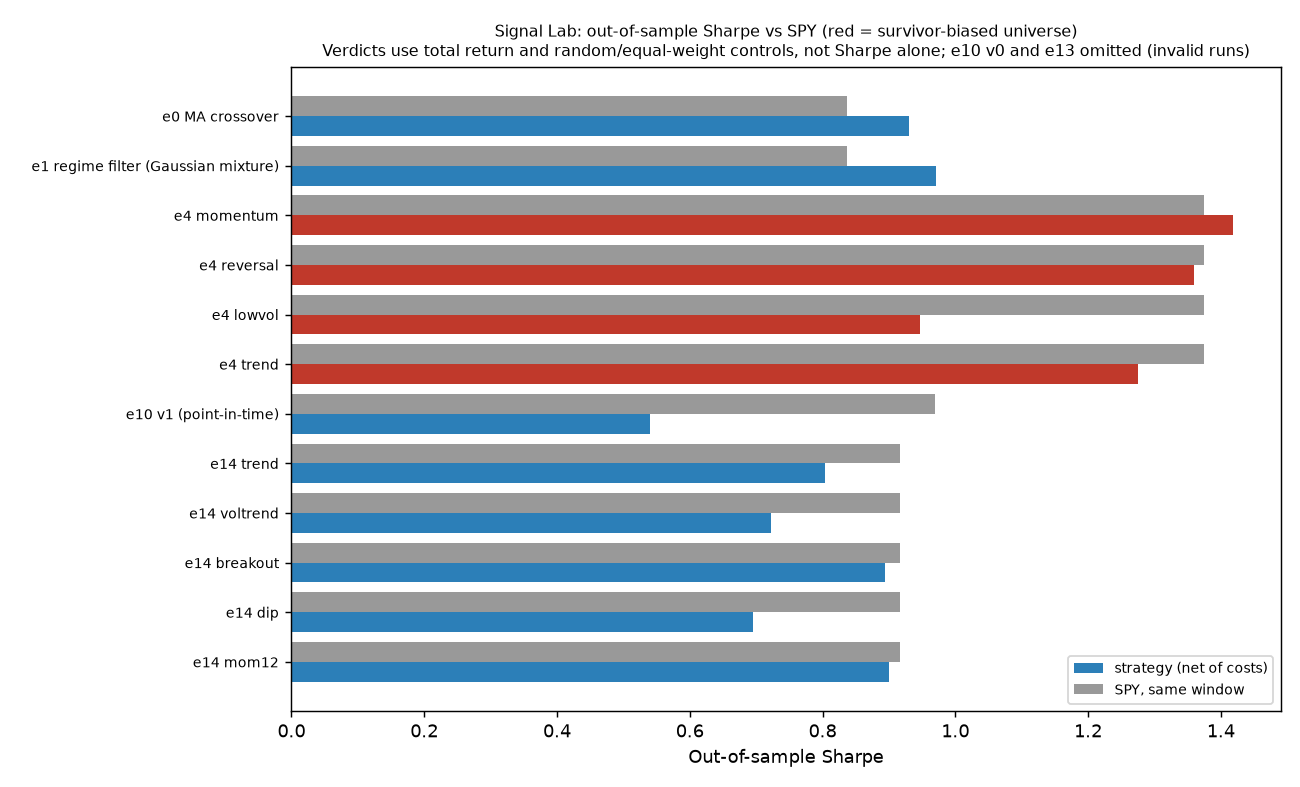
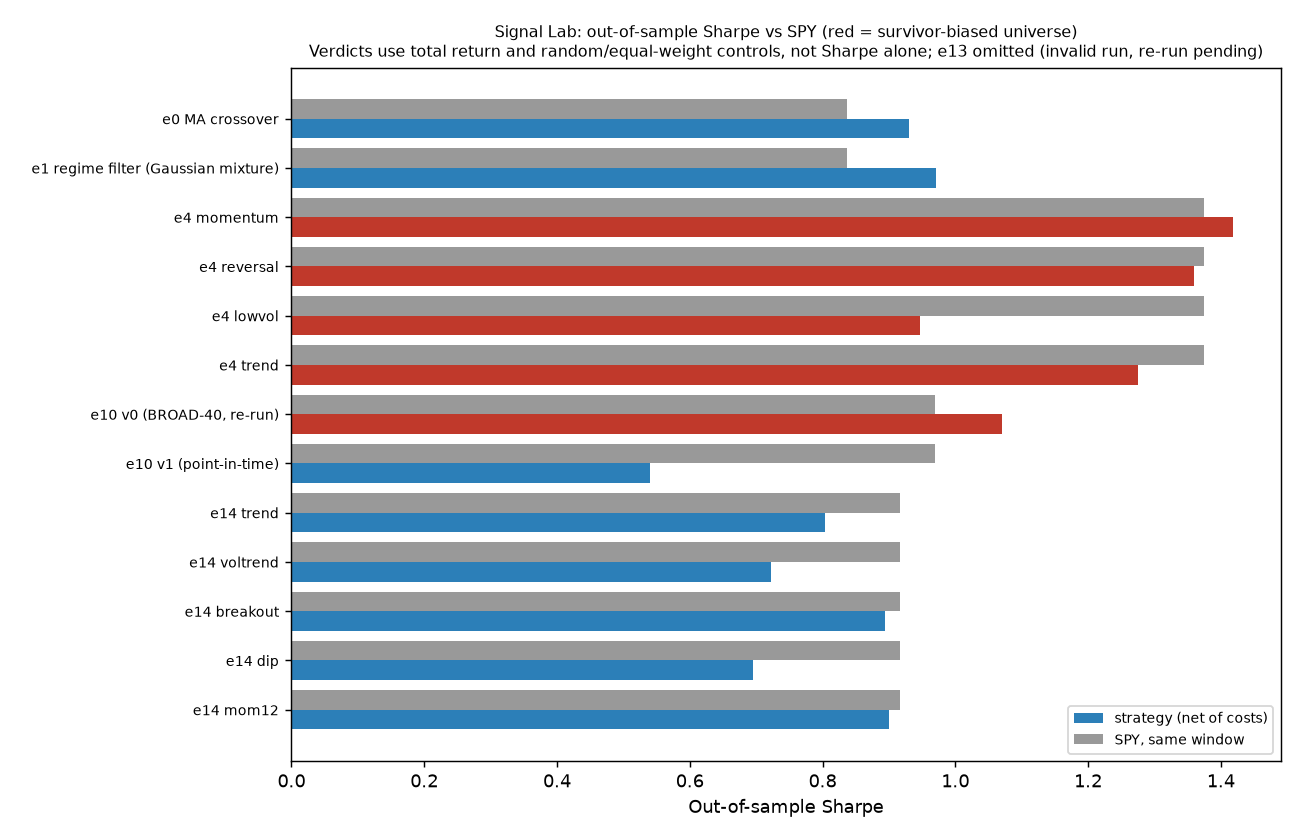
Update README, methodology and chart with the re-run results
The errata, results table and key findings still described e07, e10 v0
and e12 as pending re-runs. They now give the re-run numbers and
verdicts: e07 and e12 LOSE, e10 v0 SUSPECT (narrow gate pass on a
survivor-biased universe, not promoted).

The rows that are still pending say why: e09 needs a local llama.cpp
model, e13 needs SEC EDGAR access with a real contact, and the e20
data feed throttles downloads to about one file a minute.

The hero chart now plots the corrected e10 v0 run (marked as
survivor-biased) instead of omitting it; e13 is still left out. The
old e10 and e12 reports and runner docstrings point to their re-runs.

diff --git a/docs/make_charts.py b/docs/make_charts.py
@@ -27,8 +27,11 @@ for r in J("e00-ma-baseline/latest.json"):
 for r in J("e04-factor-tilts/e4-latest.json"):
     h = r["champion_holdout"]
     rows.append((r["experiment"].replace("_", " "), h["strategy"]["sharpe"], h["benchmark_sp500"]["sharpe"], True))
-# e10 v0 (overlapping-return error, pre-cost) and e13 (wrong price cache) are INVALID and left out;
-# see the README errata.
+# e10 v0: the November 2026 re-run of the corrected runner (5-session rebalances, 5bps/side).
+# The original v0 JSON is INVALID (overlapping returns compounded daily) and is not plotted.
+# e13 (wrong price cache; re-run pending) is left out; see the README errata.
+v0 = J("e10-gbm-ranker/e10-v0-gbm-rerun-2026-11.json")
+rows.append(("e10 v0 (BROAD-40, re-run)", v0["port_sharpe_net"], v0["spy_sharpe"], True))
 v1 = J("e10-gbm-ranker/e10-v1-survivorship.json")
 rows.append(("e10 v1 (point-in-time)", v1["strat_net_sharpe"], v1["spy_sharpe"], False))
 for k, v in J("e14-thirdparty-etf-rules/e14-results.json").items():
@@ -45,7 +48,7 @@ ax.invert_yaxis()
 ax.set_xlabel("Out-of-sample Sharpe")
 ax.set_title("Signal Lab: out-of-sample Sharpe vs SPY (red = survivor-biased universe)\n"
              "Verdicts use total return and random/equal-weight controls, not Sharpe alone; "
-             "e10 v0 and e13 omitted (invalid runs)", fontsize=9)
+             "e13 omitted (invalid run, re-run pending)", fontsize=9)
 ax.legend(loc="lower right", fontsize=8)
 fig.tight_layout()
 fig.savefig(os.path.join(OUT, "oos_sharpe_vs_spy.png"), dpi=130)

diff --git a/experiments/e10-gbm-ranker/run_e10_v0.py b/experiments/e10-gbm-ranker/run_e10_v0.py
@@ -24,7 +24,7 @@ day's return was counted about five times, which inflates Sharpe by roughly sqrt
 compounded total far more. It also used ABNORMAL (stock minus SPY) returns but compared them
 with SPY's total return, charged no costs, and treated overlapping daily ICs as independent.
 The published "Sharpe 2.08 / 8,689x" is therefore mostly a return-math error, not only
-survivorship. This file is the corrected runner; it has not been re-run yet.
+survivorship. This file is the corrected runner; its re-run is in e10-v0-gbm-rerun-2026-11.*.
 """
 import json, os, sys, time
 import pandas as pd

diff --git a/experiments/e12-pairs-cointegration/run_e12.py b/experiments/e12-pairs-cointegration/run_e12.py
@@ -29,7 +29,7 @@ position and each exit dropped the reverting move. A perfect +3 -> 0 reversion s
 a loss. It also divided by the spread sd twice, used ADF critical values (-3.44) instead
 of Engle-Granger ones, gave the random pairs a hedge ratio of 1, and dropped every name
 that listed after 2012 from all years. Those results are INVALID; this file is the
-corrected runner and has not been re-run yet.
+corrected runner; its re-run is in e12-pairs-rerun-2026-11.*.
 """
 import itertools, json, os, sys, time
 import numpy as np

diff --git a/README.md b/README.md
@@ -19,27 +19,31 @@ out-of-sample testing with realistic costs. This lab ran such claims through one
 pipeline and recorded what happened. Twenty experiments are indexed below (e00–e22; e11, e15 and
 e21 were never run). None of the valid results shows a usable edge: they lose to SPY (equity
 strategies) or to random-entry and trend-following controls (FX), and the few that pass a gate
-do so on a survivor-biased universe and are not promoted. Five runs are INVALID and await a
-re-run. Several published verdicts turned out
-to rest on bugs; they are listed in the errata and relabeled rather than removed.
+do so on a survivor-biased universe and are not promoted. Several published verdicts turned out
+to rest on bugs; they are listed in the errata and relabeled rather than removed. Of the five
+runs marked INVALID, three were re-run with the fixed code in November 2026: e07 ORB/fade and e12
+now LOSE, and e10 v0 passes its gate narrowly on a survivor-biased universe (SUSPECT, not
+promoted). e09 and e13 are still INVALID and await a re-run.
 
 ## Errata (November 2026)
 
 A line-by-line review of the runners found bugs under several published verdicts. Each one is
 fixed in code. Market data could not be downloaded when the fixes were made, so the affected
-experiments have **not** been re-run; their committed numbers are from the buggy code and are
-labeled INVALID or "pending re-run". Numbers below were recomputed from committed files where
-possible; anything marked "rough" is arithmetic on committed summary numbers, not a re-run.
+experiments were first relabeled INVALID or "pending re-run" with numbers recomputed from committed
+files; anything marked "rough" is arithmetic on committed summary numbers, not a re-run. On
+2026-11-25 the fixed runners for e07, e10 v0 and e12 were re-run once on fresh data with their
+pre-registered parameters; those rows now give the re-run result (files named `*-rerun-2026-11.*`,
+trials appended to `registry/trials.jsonl`). The old reports stay in the repo, marked INVALID.
 
 | Experiment | What was wrong | What changes | Does the conclusion hold? |
 |---|---|---|---|
-| e10 v0 | The top decile's 5-day forward return was recorded every day, compounded daily and annualized with sqrt(252), so each day counted about 5 times. Returns were abnormal (vs SPY) but compared with SPY's total return; pre-cost; IC t ignored the overlap. | v0 is INVALID. Rough correction: Sharpe ~2.08/sqrt(5) = 0.93, IC t ~2.07, the 8,689x total is about 14.7%/yr pre-cost abnormal return. The "8,689x / 87%/yr from survivorship" story is withdrawn. Runner fixed (5-session rebalances, costs, Newey-West t). | e10 v1 (point-in-time, LOSE) is not affected. Survivorship still flatters BROAD-40 results, but v0 does not measure by how much. Pending re-run. |
+| e10 v0 | The top decile's 5-day forward return was recorded every day, compounded daily and annualized with sqrt(252), so each day counted about 5 times. Returns were abnormal (vs SPY) but compared with SPY's total return; pre-cost; IC t ignored the overlap. | v0 is INVALID. Rough correction: Sharpe ~2.08/sqrt(5) = 0.93, IC t ~2.07, the 8,689x total is about 14.7%/yr pre-cost abnormal return. The "8,689x / 87%/yr from survivorship" story is withdrawn. Runner fixed (5-session rebalances, costs, Newey-West t). | e10 v1 (point-in-time, LOSE) is not affected. **Re-run (2026-11-25):** IC 0.010, Newey-West t 2.03, top-decile net Sharpe 1.07 vs SPY 0.97 at 5 bps/side (2012-07 to 2026-11). Passes the gate narrowly on survivor-biased BROAD-40: SUSPECT, not promoted. A first attempt that lost META to a failed download gave t 2.04, Sharpe 0.89, LOSE; both trials are logged. |
 | e04 | The README said "no factor passes both regime splits". The repo's own reports show reversal and trend PASS the strict gate on both splits (momentum on 2023+ only). | Relabeled SUSPECT, not promoted. | Still not an edge: survivor-biased BROAD-40, champion parameters differ between splits, and champions were promoted on the same holdout they are scored on. |
-| e09 | The output parser looked for "ANSWER:", which the prompt never contained; llama-cli echoes the prompt ("UP or DOWN"), so every call parsed as UP. | "Constant-UP predictor" withdrawn; e09 is INVALID. Parser fixed (prompt not echoed, grammar-constrained UP/DOWN). | Unknown. Pending re-run. |
-| e07 ORB | The short leg was simulated as a long; the stop check fired on the first bar and booked every short as a win. That is the +0.519%/trade and 68.6% win rate. e7c (fade) always shorted, even below VWAP. | ORB INVALID (it was labeled SUSPECT; the trial log says BEAT). Both fixed. | e7b (reclaim) LOSE is unaffected. ORB and fade pending re-run. |
-| e12 | The position was updated from today's z-score before today's spread change was booked, so entries booked their trigger move as a loss and exits dropped the reversion; a perfect +3 to 0 reversion scored about -6%. Also double-scaled P&L, ADF instead of Engle-Granger critical values, random pairs with hedge ratio 1, late listings dropped. | INVALID. "Real cointegrated pairs underperform random pairs" is withdrawn. Runner fixed. | Unknown. Pending re-run. |
-| e13 | `harness.data.fetch` returned the cached 8-ticker e0 panel instead of BROAD-40, so most picks earned 0%. Also: book only 50% invested, no switch to SPY when risk-off, same-bar look-ahead, ROA used as ROE, control never rebalanced. | INVALID. Cache check added to the harness; runner fixed. | Unknown. Pending re-run. |
-| e20 | 4H bars are labeled by their start; the scan began at the start of the break candle, so about 30% of trades (54% of the no-trigger ablation) entered before that candle closed. | Dropping those trades from the committed CSVs: primary holdout -0.12R (t -0.72, n 111) instead of -0.04R; every variant is lower. Runner fixed. | LOSE holds (the leak favored the strategy). The dev-period ablation and the 2003–14 / 2022+ follow-up ran on the leaky code and are tainted. |
+| e09 | The output parser looked for "ANSWER:", which the prompt never contained; llama-cli echoes the prompt ("UP or DOWN"), so every call parsed as UP. | "Constant-UP predictor" withdrawn; e09 is INVALID. Parser fixed (prompt not echoed, grammar-constrained UP/DOWN). | Unknown. Pending re-run (needs a local llama.cpp build and the GGUF model, which were not available for the November re-runs). |
+| e07 ORB | The short leg was simulated as a long; the stop check fired on the first bar and booked every short as a win. That is the +0.519%/trade and 68.6% win rate. e7c (fade) always shorted, even below VWAP. | ORB INVALID (it was labeled SUSPECT; the trial log says BEAT). Both fixed. | **Re-run (2026-11-25), LOSE:** ORB -0.133%/trade (n 2,248), fade -0.111% (n 221), reclaim -0.145% (n 736), random entries -0.165%, after 14 bps round trip. Only ~60 days of 5-minute bars are available (2026-09-02 to 2026-11-25), a different window from the first run. |
+| e12 | The position was updated from today's z-score before today's spread change was booked, so entries booked their trigger move as a loss and exits dropped the reversion; a perfect +3 to 0 reversion scored about -6%. Also double-scaled P&L, ADF instead of Engle-Granger critical values, random pairs with hedge ratio 1, late listings dropped. | INVALID. "Real cointegrated pairs underperform random pairs" is withdrawn. Runner fixed (and, at the re-run, a leftover global drop of late listings removed). | **Re-run (2026-11-25), LOSE:** mean annual -2.9% over 2016–2026 vs SPY +15.0%; random pairs -3.8%. Selection adds about a point a year over chance, well inside the noise. |
+| e13 | `harness.data.fetch` returned the cached 8-ticker e0 panel instead of BROAD-40, so most picks earned 0%. Also: book only 50% invested, no switch to SPY when risk-off, same-bar look-ahead, ROA used as ROE, control never rebalanced. | INVALID. Cache check added to the harness; runner fixed. | Unknown. Pending re-run: SEC EDGAR refuses requests without a real contact in the `User-Agent`, and the runner ships with a placeholder. |
+| e20 | 4H bars are labeled by their start; the scan began at the start of the break candle, so about 30% of trades (54% of the no-trigger ablation) entered before that candle closed. | Dropping those trades from the committed CSVs: primary holdout -0.12R (t -0.72, n 111) instead of -0.04R; every variant is lower. Runner fixed. | LOSE holds (the leak favored the strategy). The dev-period ablation and the 2003–14 / 2022+ follow-up ran on the leaky code and are tainted. Not re-run yet: the free Dukascopy feed throttled the hourly-candle download to about one month-file per minute (about 1,400 files needed), and the follow-up's runner is not in this repo. |
 | e08 | IC t-stat treated overlapping 5-day labels as independent; early stopping held out the last ~10 tickers (rows were sorted by ticker), sharing dates with training. | Rough overlap correction puts t = -2.06 near -0.9. "Anti-predictive" withdrawn. Runner fixed. | LOSE (no skill) holds. |
 | e06 | Entry at the filing-date close (Form 4s are often filed after the close); 5-day embargo where 10 was pre-registered; t-stat ignored overlap. | Runner fixed. | LOSE very likely holds (IC 0.017, t 0.11 over 17 days). Pending re-run. |
 | e02 v0 | Filings were counted over a Monday–Sunday week, but entry used the close on or before that Monday (up to ~6 days early). | Runner fixed (entry at the next Monday's close). | v0 AUC 0.498 pending re-run. v1/v2 are not affected. |
@@ -62,19 +66,19 @@ experiment's folder; the main ones are under [Quickstart](#quickstart-fresh-clon
 | [e04](experiments/e04-factor-tilts/) | Classic factor tilts (momentum, low-vol, reversal, trend) | SUSPECT, not promoted — reversal and trend pass the strict gate on both splits, on a survivor-biased universe with holdout-selected champions |
 | [e05](experiments/e05-thesis-book/) | Thesis-research 10-position paper book vs SPY, QTUM and random-pick control | discontinued at archive (seeded 2026-10-20, only the day-0 snapshot exists) |
 | [e06](experiments/e06-sec-filings/) | SEC-filing features forecast 5-session abnormal returns | LOSE — IC 0.017, t 0.11, 17 scored days (runner fixed, see errata) |
-| [e07](experiments/e07-daytrading-setups/) | Claimed day-trading setups (ORB, VWAP reclaim/fade, gap-and-go) | reclaim LOSE (matches the random-entry control); ORB INVALID; fade pending re-run; gap-and-go 3 trades, untestable |
+| [e07](experiments/e07-daytrading-setups/) | Claimed day-trading setups (ORB, VWAP reclaim/fade, gap-and-go) | **LOSE** — re-run on 60 sessions of 5-min bars, 14 bps round trip: ORB −0.133%/trade (n 2,248), fade −0.111% (n 221), reclaim −0.145% (n 736) vs random entries −0.165%; gap-and-go 4 trades, untestable |
 | [e08](experiments/e08-lstm/) | LSTM on daily price sequences | LOSE — no skill (IC −0.0082; overlap-corrected t about −0.9) |
 | [e09](experiments/e09-local-llm/) | Local 1.5B LLM analyst (zero-shot, llama.cpp) | INVALID — output-parser bug; pending re-run |
 | [e10 v1](experiments/e10-gbm-ranker/) | Same GBM on point-in-time S&P 500 membership, 10bps/side | **LOSE** — net Sharpe 0.54 vs SPY 0.97, CAGR 10.5% vs 15.4%; beats random-pick p95 (0.42) only; IC t 1.98 |
-| [e10 v0](experiments/e10-gbm-ranker/) | GBM cross-sectional ranker on BROAD-40 (today's large caps) | INVALID — overlapping returns compounded daily, pre-cost; pending re-run |
-| [e12](experiments/e12-pairs-cointegration/) | Pairs trading via cointegration | INVALID — P&L booked on the signal bar in the wrong direction; pending re-run |
-| [e13](experiments/e13-cio-framework/) | "CIO framework" LLM prompt, decomposed | INVALID — ran on the wrong price data; pending re-run |
+| [e10 v0](experiments/e10-gbm-ranker/) | GBM cross-sectional ranker on BROAD-40 (today's large caps) | SUSPECT, not promoted — re-run: IC t 2.03, net Sharpe 1.07 vs SPY 0.97 at 5 bps/side; passes the gate narrowly on a survivor-biased universe, and an attempt missing META (failed download) did not pass (the first run was INVALID) |
+| [e12](experiments/e12-pairs-cointegration/) | Pairs trading via cointegration | **LOSE** — re-run: mean annual −2.9% (2016–2026) vs SPY +15.0%; random pairs −3.8% (the first run was INVALID) |
+| [e13](experiments/e13-cio-framework/) | "CIO framework" LLM prompt, decomposed | INVALID — ran on the wrong price data; pending re-run (needs SEC EDGAR access with a real contact) |
 | [e14](experiments/e14-thirdparty-etf-rules/) | Shared bot: 5 rules (trend, vol-trend, breakout, dip, 12m momentum) on 7 ETFs/crypto | LOSE — 0/5 pass own gate (v0 and v1 with the shared params); none beats SPY |
 | [e16a](experiments/e16-daily-direction/) | Daily SPY open->close direction: logit + HGB walk-forward, TP/SL overlays | **LOSE** — 0/4 variants pass; AUC 0.495 (logit) / 0.520 (HGB); net Sharpe 0.06–0.42 at 2 bps, −1.6 to −3.5 at the pre-registered 20 bps, vs SPY B&H 0.86 |
 | [e16b/e17](forward/SPEC-e16b-e17.md) | Live forward arms of e16/e17 on paper accounts | discontinued at archive (no scored calls committed) |
 | [e18](experiments/e18-newtoken-logger/) | New crypto token listing logger + scorer | discontinued at archive (1 day of data, gate needs ≥200 approved tokens) |
 | [e19](experiments/e19-foundation-forecast/) | Zero-shot Kronos / TimesFM forecasts on 14 ETFs | **LOSE** — 0/12 trials BEAT (Bonferroni alpha 0.0042) |
-| [e20](experiments/e20-fx-break-retest/) | Retail FX "break → retest → engulfing" setup, 10 pairs, 2015–2026 | **LOSE** — holdout (2022+) mean −0.04R/trade, t −0.29, n=152 (−0.12R without the look-ahead trades); 0/6 variants reach t≥2. The follow-up on the best dev ablation also failed but ran on the leaky code; FX lane closed |
+| [e20](experiments/e20-fx-break-retest/) | Retail FX "break → retest → engulfing" setup, 10 pairs, 2015–2026 | **LOSE** — holdout (2022+) mean −0.04R/trade, t −0.29, n=152 (−0.12R without the look-ahead trades); 0/6 variants reach t≥2. The follow-up on the best dev ablation also failed but ran on the leaky code; corrected re-run pending (data feed throttled); FX lane closed |
 | [e22](experiments/e22-tsmom/) | Cross-asset vol-targeted 12-1 time-series momentum, 8 ETFs, 2015+ holdout | **LOSE** — best holdout Sharpe 0.52 (long-only) vs SPY 0.80; long/short variants ≈ 0 |
 
 Verdict labels: **BEAT** (passes every pre-registered gate), **LOSE** (fails at least one),
@@ -94,7 +98,9 @@ These are the conclusions that survive the errata.
 - **Survivorship and costs.** On point-in-time S&P 500 membership the GBM ranker is net Sharpe
   0.54 vs SPY 0.97 and **LOSE** (e10 v1); gross Sharpe 0.80 falls to 0.54 net at 10 bps/side
   (0.63 turnover per rebalance). The earlier "8,689x on today's mega-caps" figure was mostly a
-  return-math error and is withdrawn.
+  return-math error and is withdrawn. Re-run correctly on today's mega-caps (e10 v0), the same
+  model is net Sharpe 1.07 vs SPY 0.97 with IC t 2.03: a bare pass on a survivor-biased list that
+  disappears on point-in-time membership.
 - **Random controls matter.** On a survivor-biased universe most random 3-stock picks beat SPY
   (16 of 20 seeds in the e0 report), so beating SPY is not evidence; the strict verdict also
   requires beating the random-pick median and the equal-weight universe. The e4 factor tilts
@@ -107,7 +113,9 @@ These are the conclusions that survive the errata.
 - **Bugs hide in the plumbing, not the model.** Five published verdicts were decided by P&L,
   timing, data-loading or parsing bugs (e07 ORB, e09, e10 v0, e12, e13), and e20's development
   numbers were inflated by look-ahead inside a bar. Most of these runners did their own
-  simulation instead of using the unit-tested harness code.
+  simulation instead of using the unit-tested harness code. Re-run with the fixes, the e07 ORB
+  "edge" (+0.519%/trade) became a loss (−0.133%/trade), and e12's cointegrated pairs now lose
+  slightly less than random pairs (−2.9% vs −3.8% a year) instead of more; both still lose.
 
 ![e10 v1 gross vs net vs SPY](docs/img/e10_survivorship_costs.png)
 
@@ -116,13 +124,15 @@ These are the conclusions that survive the errata.
 - Free data only (yfinance adjusted closes); no delisted-name prices, so even the point-in-time
   e10 v1 covers 68%–99% of historical members depending on date (lowest early; delisted names are missing).
 - Most universes are small (BROAD-40, 7 ETFs); single-stock results are flagged SUSPECT.
-- Intraday tests (e07) cover ~60 days of 5-minute data; e06 has 17 scored days. Low power.
+- Intraday tests (e07) cover ~60 days of 5-minute data (yfinance keeps no more), so the first run
+  and the re-run cover different windows; e06 has 17 scored days. Low power.
 - Costs are flat bps assumptions, no market impact or borrow costs. Daily backtests fill at the
   signal bar's close (market-on-close), not the next open.
 - SPY is the S&P 500 proxy. Holdouts are reused for champion promotion once per generation, so
   they degrade; generations are capped but not zero-cost.
 - Seeds, universes and windows differ across experiments: compare verdicts, not raw numbers.
-- Several runners were never re-run after the November 2026 fixes (see errata).
+- e07, e10 v0 and e12 were re-run after the November 2026 fixes; e01/e04, e02 v0, e06, e08, e09,
+  e13 and e20 were not (see errata).
 - No live-trading evidence; the paper clocks (e03, e05, e16b/e17, e18) were stopped at archive.
 
 ## Design
@@ -135,20 +145,23 @@ What is implemented, and where it falls short.
   e20; fixed). Intraday stop/target checks assume the stop is hit first when both are touched in
   one bar.
 - **Costs in most tests.** Per-side cost on turnover (5 bps default, 10 bps for e10 v1, 20 bps
-  round trip for e16a). IC-only experiments (e2 v0, e6, e8, e9) and the e10 v0 run charge none.
+  round trip for e16a). IC-only experiments (e2 v0, e6, e8, e9) and the first (invalid) e10 v0
+  run charge none; the e10 v0 re-run charges 5 bps/side.
 - **Controls where they could be built.** Random-pick / random-entry / random-sign controls for e0,
   e1, e2 v1/v2, e4, e5, e7, e10 v1, e14, e16a, e19, e20 and e22; random pairs for e12. e6, e8, e9 and e10 v0 have no control.
 - **Overfit accounting.** `registry/trials.jsonl` is append-only, but incomplete (e2 v0, e3 and
-  e18 not logged; e20 follow-up kept privately; some re-runs logged more than once; one block out
-  of chronological order). Deflated Sharpe is computed for e0, e1 and e4 over their logged trials.
-  PBO is not implemented. Champions are picked on full development-period Sharpe and promoted on
-  the holdout, so the holdout is not untouched.
+  e18 not logged; e20 follow-up kept privately; some re-runs logged more than once, including the
+  e10 v0 re-run, whose first attempt lacked one stock; one block out of chronological order).
+  Deflated Sharpe is computed for e0, e1 and e4 over their logged trials. PBO is not implemented.
+  Champions are picked on full development-period Sharpe and promoted on the holdout, so the
+  holdout is not untouched.
 - **Same-window comparison.** Every verdict compares strategy, SPY and (where present) the control
   over identical dates.
 - **Pre-registration.** Most experiments have a `SPEC*.md` written before the run.
   `registry/experiments.yaml` covers only e0–e5 and its grids differ from what ran (noted in the
   file). Kill criteria were mostly honored (e8, e9, e12, e20 lanes closed), but e2 was reopened
-  twice after its kill gate, and the e9 and e12 closures rested on the buggy runs.
+  twice after its kill gate, and the e9 and e12 closures rested on the buggy runs (the e12
+  re-run confirms the LOSE; e9 is still pending).
 
 ## Stack
 
@@ -181,17 +194,20 @@ Reproduce one result from raw data (needs network; downloads prices via yfinance
 
 ```bash
 python experiments/e22-tsmom/run_e22.py data out        # fast (~2 min), prices via yfinance; compare out/results.json with experiments/e22-tsmom/results/
-python experiments/e12-pairs-cointegration/run_e12.py   # corrected pairs walk-forward (the committed e12-pairs.md is INVALID)
+python experiments/e12-pairs-cointegration/run_e12.py   # corrected pairs walk-forward (re-run: e12-pairs-rerun-2026-11.md)
+python experiments/e10-gbm-ranker/run_e10_v0.py         # corrected v0 ranker (re-run: e10-v0-gbm-rerun-2026-11.md)
+python experiments/e07-daytrading-setups/run_e7.py      # yfinance keeps only ~60 days of 5-minute bars, so the window moves
 python -m tests.smoke                                   # e0/e1/control causality + verdict on real data
 ```
+
+These append to `registry/trials.jsonl` when they finish. Their November 2026 re-runs are
+committed under each experiment folder as `*-rerun-2026-11.*`.
 
 Pending re-runs from the errata (need network; outputs go to `reports/`, trials to
 `registry/trials.jsonl`):
 
 ```bash
 python experiments/e13-cio-framework/run_e13.py         # needs a real SEC contact in its User-Agent
-python experiments/e10-gbm-ranker/run_e10_v0.py
-python experiments/e07-daytrading-setups/run_e7.py      # yfinance keeps only ~60 days of 5-minute bars
 python experiments/e08-lstm/run_e8.py                   # needs torch
 python experiments/e06-sec-filings/run_e6.py
 python experiments/e02-insider-filings/run_e2_edgar.py
@@ -202,6 +218,8 @@ LLAMA_CLI=/path/to/llama-cli E9_MODEL=/path/to/model.gguf \
   python experiments/e09-local-llm/e9_infer.py data/cache/e9_summaries.jsonl data/cache/e9_predictions.jsonl
 python experiments/e09-local-llm/run_e9_score.py
 # e20: python experiments/e20-fx-break-retest/fetch_dukascopy.py && python experiments/e20-fx-break-retest/run_e20.py results
+#   (the free feed throttles to about one month-file per minute, so the ~1,400-file download takes
+#   most of a day; it resumes from its cache)
 ```
 
 ## Method in one paragraph

diff --git a/docs/METHODOLOGY.md b/docs/METHODOLOGY.md
@@ -14,13 +14,14 @@ the README errata (November 2026) for the experiments where these rules were bro
   booked P&L against the new position, e13 earned the decision day's return, e20 traded inside an
   unfinished 4H bar); see the errata.
 - Labels on multi-day horizons overlap from day to day. IC t-stats for e6, e8 and e10 v0 now use
-  a Newey-West correction (`harness.evaluator.newey_west_t`); the committed numbers predate it.
+  a Newey-West correction (`harness.evaluator.newey_west_t`). The committed e6 and e8 numbers
+  predate it; the e10 v0 re-run (November 2026) uses it.
 
 ## 2. Costs
 Most backtests charge a per-side cost on turnover (default 5 bps; 10 bps for e10 v1; 20 bps round
 trip for e16a, which is conservative for SPY, see the e16a cost table). Not all do: e2 v0, e6, e8
-and e9 are scored on IC or accuracy only, and the e10 v0 run was pre-cost. Gross numbers are
-reported next to net numbers where both exist.
+and e9 are scored on IC or accuracy only, and the first e10 v0 run was pre-cost (its re-run
+charges 5 bps/side). Gross numbers are reported next to net numbers where both exist.
 
 ## 3. Same-window comparison
 Strategy, SPY (total-return proxy), and controls are scored on identical dates.
@@ -38,7 +39,8 @@ Strategy, SPY (total-return proxy), and controls are scored on identical dates.
 ## 5. Overfit accounting
 `registry/trials.jsonl` is append-only and holds the trials that were logged. It is not complete:
 e2 v0, e3 and e18 were not logged, the e20 follow-up trials are in a private registry, some runs
-were logged more than once (e9 five times, e7 twice), and one block of rows is out of
+were logged more than once (e9 five times, the first e7 run twice, the November 2026 e10 v0
+re-run twice because its first attempt was missing one stock), and one block of rows is out of
 chronological order. Deflated Sharpe (Bailey & López de Prado) is computed only for e0, e1 and
 e4, over all logged dev trials for that experiment (duplicates included). PBO is not implemented.
 
@@ -53,10 +55,12 @@ Grids, gates and kill criteria go into `experiments/*/SPEC*.md` before the run. 
 have no SPEC; and e2 was reopened twice after its kill gate (disclosed in its SPEC files).
 
 ## 7. Survivorship
-Universes of today's large caps inflate results. The e10 v0 run on BROAD-40 is INVALID for a
-separate reason (overlapping returns compounded daily, see errata), so it does not measure the
-survivorship effect cleanly. The point-in-time rebuild (e10 v1) gives net Sharpe 0.54 vs SPY 0.97,
-LOSE. Any single-stock result on the BROAD-40 universe is flagged SUSPECT.
+Universes of today's large caps inflate results. The first e10 v0 run on BROAD-40 was INVALID for
+a separate reason (overlapping returns compounded daily, see errata). Its corrected re-run gives
+net Sharpe 1.07 vs SPY 0.97 (IC t 2.03), while the point-in-time rebuild (e10 v1, 10 bps/side)
+gives 0.54 vs 0.97, LOSE. The two differ in universe, period and costs, so the gap is only a rough
+measure of the survivorship effect. Any single-stock result on the BROAD-40 universe is flagged
+SUSPECT.
 
 ## 8. Known limits
 See README "Limitations".

diff --git a/experiments/e10-gbm-ranker/SPEC-v0.md b/experiments/e10-gbm-ranker/SPEC-v0.md
@@ -48,7 +48,8 @@ the point is replicating the industry-standard method honestly, not assuming it 
 > Sharpe ~2.08/sqrt(5) = 0.93 and IC t ~4.63/sqrt(5) = 2.07; the 8,689x total corresponds to
 > roughly 14.7%/yr of pre-cost abnormal return (ln(8,689.9)/13.27 years/5), against SPY's 14.5%/yr
 > total return. The verdict is INVALID; `run_e10_v0.py` now rebalances every 5 sessions, charges
-> 5bps/side, holds total returns, and uses a Newey-West t-stat. Re-run pending.
+> 5bps/side, holds total returns, and uses a Newey-West t-stat. The November 2026 re-run is in
+> `e10-v0-gbm-rerun-2026-11.md`: IC t 2.03, net Sharpe 1.07 vs SPY 0.97, SUSPECT, not promoted.
 
 IC 0.0162 (t=4.63, 3150 scored days), top-decile portfolio Sharpe 2.08 vs SPY 0.89,
 total 8689x over 2013-2026. The gate passed, but the result fails the smell test at

diff --git a/experiments/e10-gbm-ranker/e10-v0-gbm.md b/experiments/e10-gbm-ranker/e10-v0-gbm.md
@@ -9,7 +9,8 @@
 > Sharpe ~2.08/sqrt(5) = 0.93 and IC t ~4.63/sqrt(5) = 2.07; the 8,689x total corresponds to
 > roughly 14.7%/yr of pre-cost abnormal return (ln(8,689.9)/13.27 years/5), against SPY's 14.5%/yr
 > total return. The verdict is INVALID; `run_e10_v0.py` now rebalances every 5 sessions, charges
-> 5bps/side, holds total returns, and uses a Newey-West t-stat. Re-run pending.
+> 5bps/side, holds total returns, and uses a Newey-West t-stat. The November 2026 re-run is in
+> `e10-v0-gbm-rerun-2026-11.md`: IC t 2.03, net Sharpe 1.07 vs SPY 0.97, SUSPECT, not promoted.
 
 Window 2013-07-03 -> 2026-10-09, BROAD-40, weekly-ish blocks (63 sessions), 5-day embargo.
 

diff --git a/experiments/e12-pairs-cointegration/e12-pairs.md b/experiments/e12-pairs-cointegration/e12-pairs.md
@@ -7,7 +7,8 @@
 > underperform random pairs" is not a finding. The P&L was also divided by the spread sd twice,
 > the selection used ADF instead of Engle-Granger critical values, the random pairs used a hedge
 > ratio of 1, and names listed after 2012 were dropped from every year. `run_e12.py` is
-> corrected; the result is pending a re-run.
+> corrected; the November 2026 re-run (`e12-pairs-rerun-2026-11.md`) is LOSE: mean annual -2.9%
+> vs SPY +15.0%, random pairs -3.8%.
 
 Walk-forward years 2016-2026, fit on trailing 3y, top-5 pairs, z=+-2/0.5/4, 10bps/pair round trip.
 
